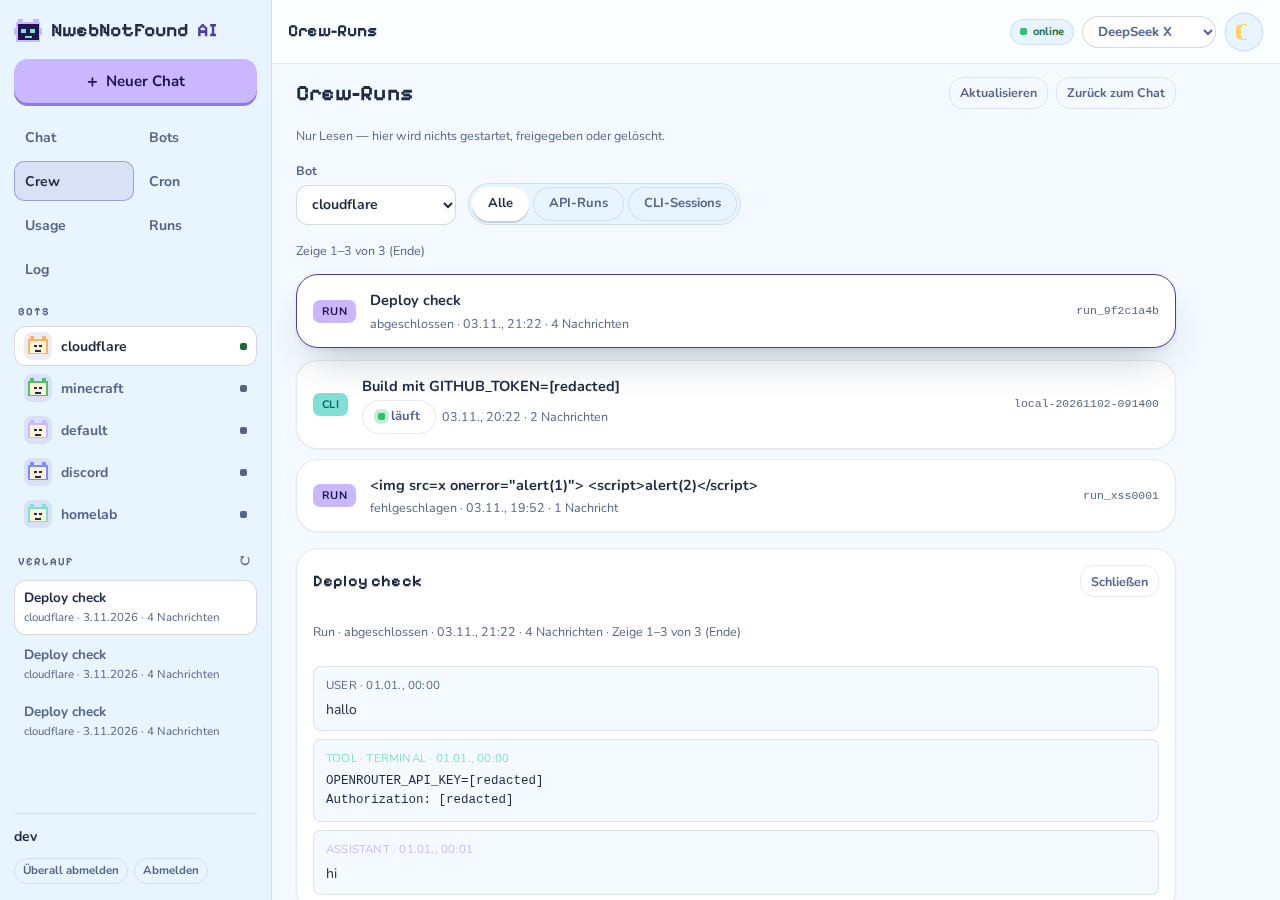
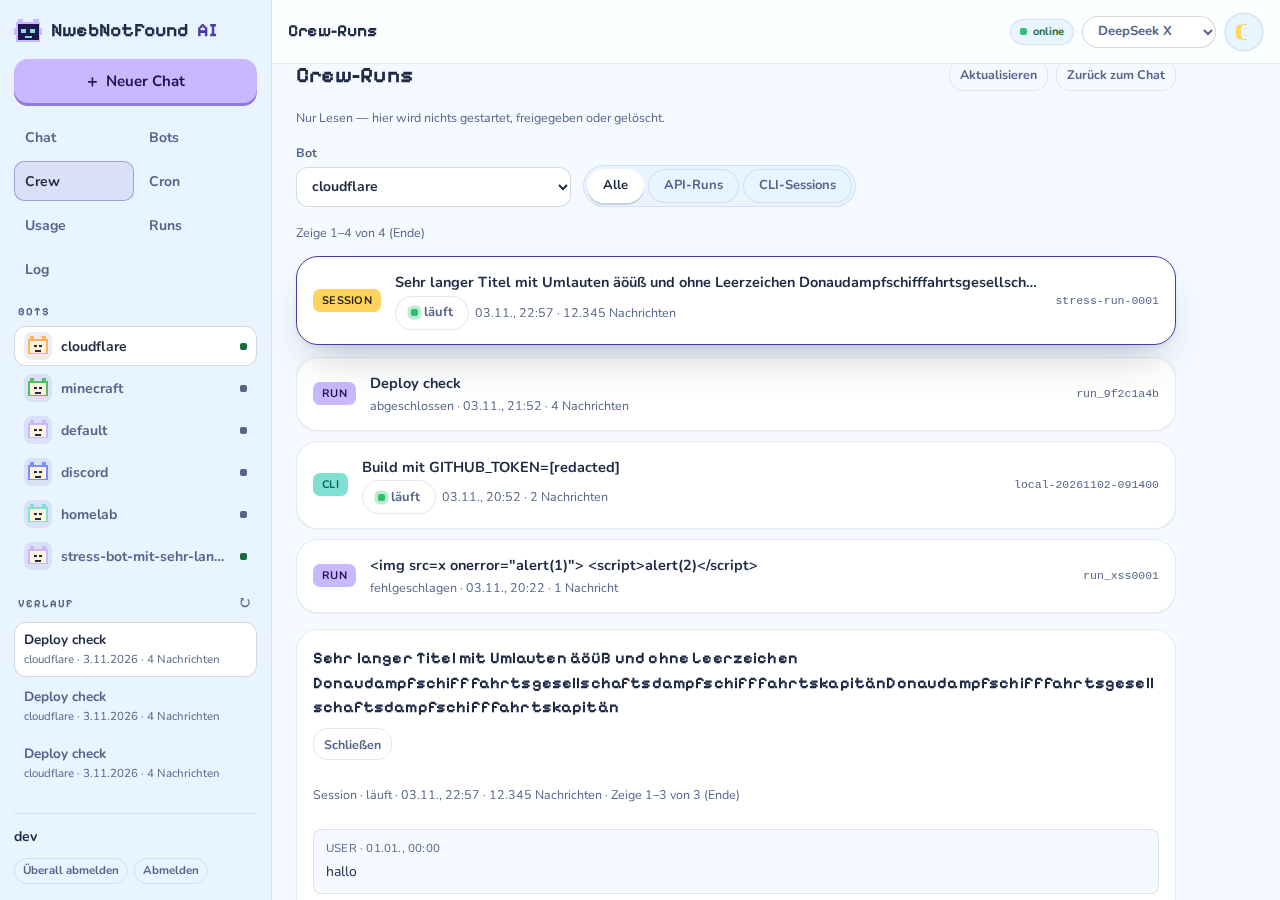
feat(ai-panel): de-DE figures, overflow-safe long content, SPA view transitions
Second round on the Summer Theme v2 draft (formatting, stress data, soft transitions).

- app.js / crew.js: every figure goes through Intl.NumberFormat("de-DE") (thousands separator,
  comma decimals, tabular-nums); costs render as $1.234.567,89, counts and ranges are grouped
- long content never overflows at 390px: the glass-header title, history titles and the log path
  are ellipsized, bot cards wrap name and description, and wide markdown tables scroll inside
  their own box
- switchView() wraps the DOM change in document.startViewTransition (feature-checked, desktop
  only, skipped under prefers-reduced-motion); topbar and rail keep their place via
  view-transition-name, duration exposed as --vt-dur-* tokens
- docs/screens/v2/ai: stress fixtures (long names, seven-figure numbers, a wide table, a long log
  path), refreshed mockup vs implementation shots and one frame captured mid-transition
- test/helpers.mjs: additive state.runOutput hook (default unchanged)

diff --git a/ai-panel/public/app.js b/ai-panel/public/app.js
@@ -40,6 +40,13 @@ const state = {
 
 const $ = (sel) => document.querySelector(sel);
 
+// Number formatting for every figure the UI prints: de-DE (thousands separator, comma decimals),
+// with tabular-nums in the stylesheet so columns line up. The panel has no language switch today,
+// so de-DE is the only locale — an en-GB table would go here once one exists.
+const fmtInt = new Intl.NumberFormat("de-DE");
+const fmtCost = new Intl.NumberFormat("de-DE", { minimumFractionDigits: 2, maximumFractionDigits: 4 });
+const fmtPrice = new Intl.NumberFormat("de-DE", { minimumFractionDigits: 2, maximumFractionDigits: 4 });
+
 // ---------------------------------------------------------------------------------------
 // DOM helpers
 // ---------------------------------------------------------------------------------------
@@ -383,7 +390,8 @@ function renderBlock(block) {
       return q;
     }
     case "table":
-      return tableNode(block);
+      // A wide table on a 390px screen scrolls inside its own box instead of the page.
+      return el("div", { class: "table-wrap" }, tableNode(block));
     case "hr":
       return el("hr");
     default:
@@ -907,7 +915,7 @@ async function loadConversations() {
       const item = el("button", { class: `session-item${conv.id === state.conversationId ? " active" : ""}` });
       item.append(el("span", { class: "t", text: conv.title || conv.id }));
       const when = conv.updated_at ? new Date(conv.updated_at).toLocaleDateString("de-DE") : "";
-      const parts = [conv.bot, when, conv.messages ? `${conv.messages} Nachrichten` : ""].filter(Boolean);
+      const parts = [conv.bot, when, conv.messages ? `${fmtInt.format(conv.messages)} Nachrichten` : ""].filter(Boolean);
       item.append(el("span", { class: "m", text: parts.join(" · ") }));
       item.onclick = () => openConversation(conv);
       list.append(item);
@@ -1321,7 +1329,7 @@ async function deleteJob(job) {
 // Usage + log
 // ---------------------------------------------------------------------------------------
 
-const money = (v) => (v === null || v === undefined ? "—" : `$${Number(v).toFixed(4)}`);
+const money = (v) => (v === null || v === undefined ? "—" : `$${fmtCost.format(Number(v) || 0)}`);
 const metric = (label, value) =>
   el("div", { class: "stat" }, el("div", { class: "k", text: label }), el("div", { class: "v", text: value }));
 
@@ -1358,7 +1366,7 @@ async function loadUsage() {
           el("b", { class: "grow", text: b.bot }),
           el("div", { class: "meter-wrap" }, meter),
           el("span", { class: "num", text: money(b.cost_usd) }),
-          el("span", { class: "k nowrap", text: `${b.sessions} Sessions · ${b.input_tokens + b.output_tokens} Tokens` }),
+          el("span", { class: "k nowrap", text: `${fmtInt.format(b.sessions)} Sessions · ${fmtInt.format(b.input_tokens + b.output_tokens)} Tokens` }),
         ),
       );
     }
@@ -1377,7 +1385,7 @@ async function loadUsage() {
         bar.style.animationDelay = `${(i * 0.03).toFixed(2)}s`;
         chart.append(bar);
       });
-      daily.append(chart, el("p", { class: "mut small bars-caption", text: `${days.length} Tage · Höchstwert ${money(max)}` }));
+      daily.append(chart, el("p", { class: "mut small bars-caption", text: `${fmtInt.format(days.length)} Tage · Höchstwert ${money(max)}` }));
     }
 
     const recent = clear($("#usage-recent"));
@@ -1389,7 +1397,7 @@ async function loadUsage() {
           { class: "card" },
           el("h3", { text: r.title || r.id }),
           el("div", { class: "k", text: `${r.bot} · ${r.model || "?"}` }),
-          el("div", { class: "k", text: `${money(r.cost_usd)} · ${r.input_tokens}+${r.output_tokens} Tokens` }),
+          el("div", { class: "k", text: `${money(r.cost_usd)} · ${fmtInt.format(r.input_tokens)}+${fmtInt.format(r.output_tokens)} Tokens` }),
         ),
       );
     }
@@ -1397,7 +1405,7 @@ async function loadUsage() {
     const prices = clear($("#usage-prices"));
     if (!u.prices.length) prices.append(el("div", { class: "card mut", text: u.prices_error || "keine Preise" }));
     for (const p of u.prices) {
-      prices.append(el("div", { class: "card" }, el("h3", { text: p.name }), el("div", { class: "k", text: `in ${p.prompt ?? "?"} · out ${p.completion ?? "?"}` })));
+      prices.append(el("div", { class: "card" }, el("h3", { text: p.name }), el("div", { class: "k", text: `in ${p.prompt === null || p.prompt === undefined ? "?" : fmtPrice.format(p.prompt)} · out ${p.completion === null || p.completion === undefined ? "?" : fmtPrice.format(p.completion)}` })));
     }
   } catch (err) {
     clear(cards).append(el("div", { class: "card mut", text: `Usage: ${err.message}` }));
@@ -1427,7 +1435,7 @@ async function loadLog() {
           el("span", { text: (e.ts || "").slice(11, 19) }),
           el("span", { class: `lv s${String(e.status)[0]}`, text: String(e.status) }),
           el("span", { text: `${e.path}${e.bot ? ` · ${e.bot}` : ""}` }),
-          el("span", { class: "c-ms", text: `${e.ms}ms` }),
+          el("span", { class: "c-ms", text: `${fmtInt.format(e.ms)} ms` }),
           el("span", { class: "c-method", text: e.method }),
         ),
       );
@@ -1512,25 +1520,41 @@ const VIEW_TITLES = {
 };
 
 function switchView(view) {
-  state.view = view;
-  for (const node of document.querySelectorAll(".view")) node.classList.toggle("active", node.id === `view-${view}`);
-  for (const btn of document.querySelectorAll(".nav-item")) btn.classList.toggle("active", btn.dataset.view === view);
-  // The glass header shows the current view's name (mockup), and remembers the chat title while
-  // another view is open so it can be restored on the way back.
-  const title = $("#chat-title");
-  if (view === "chat") {
-    title.textContent = state.chatTitle || "Neuer Chat";
-  } else {
-    state.chatTitle = title.textContent;
-    title.textContent = VIEW_TITLES[view] || "AI Panel";
+  const apply = () => {
+    state.view = view;
+    for (const node of document.querySelectorAll(".view")) node.classList.toggle("active", node.id === `view-${view}`);
+    for (const btn of document.querySelectorAll(".nav-item")) btn.classList.toggle("active", btn.dataset.view === view);
+    // The glass header shows the current view's name (mockup), and remembers the chat title while
+    // another view is open so it can be restored on the way back.
+    const title = $("#chat-title");
+    if (view === "chat") {
+      title.textContent = state.chatTitle || "Neuer Chat";
+    } else {
+      state.chatTitle = title.textContent;
+      title.textContent = VIEW_TITLES[view] || "AI Panel";
+    }
+    if (view === "bots") loadBots().catch(() => {});
+    if (view === "cron") loadJobs();
+    if (view === "usage") loadUsage();
+    if (view === "log") loadLog();
+    if (view === "runs") loadRuns();
+    if (view === "crew") crewView.open();
+    if (window.innerWidth <= 860) closeDrawer();
+  };
+
+  // Soft SPA view transition (CSS View Transitions API): content cross-fades while the topbar and
+  // the sidebar keep their place (view-transition-name in app.css). Feature-checked, skipped when
+  // reduced motion is on, and skipped on phones where the drawer animation is the transition.
+  const reduced = window.matchMedia?.("(prefers-reduced-motion: reduce)")?.matches;
+  if (typeof document.startViewTransition === "function" && !reduced && window.innerWidth > 860) {
+    try {
+      document.startViewTransition(apply);
+      return;
+    } catch {
+      /* fall through to a plain switch */
+    }
   }
-  if (view === "bots") loadBots().catch(() => {});
-  if (view === "cron") loadJobs();
-  if (view === "usage") loadUsage();
-  if (view === "log") loadLog();
-  if (view === "runs") loadRuns();
-  if (view === "crew") crewView.open();
-  if (window.innerWidth <= 860) closeDrawer();
+  apply();
 }
 
 function openDrawer() {

diff --git a/ai-panel/public/app.css b/ai-panel/public/app.css
@@ -95,6 +95,9 @@
   --ds-line: rgba(255, 255, 255, 0.08);
   --ds-line-strong: rgba(255, 255, 255, 0.16);
   --ds-face-ink: #1f2a44;
+  /* View-transition timing (see the block near the end of this file). */
+  --vt-dur-out: 180ms;
+  --vt-dur-in: 240ms;
   color-scheme: dark;
 
   /* ---- spacing: 4/8 grid ---- */
@@ -1278,6 +1281,29 @@ label { display: grid; gap: 6px; font-size: 13px; font-weight: 700; color: var(-
 #btn-theme:hover { transform: rotate(-12deg) scale(1.06); background: var(--bg-side); }
 #btn-theme svg { animation: pop-spin 0.5s cubic-bezier(0.34, 1.56, 0.64, 1); }
 
+/* ---------- SPA view transitions ----------
+   switchView() wraps the DOM change in document.startViewTransition when the browser has it. The
+   topbar and the rail carry their own view-transition-name, so they keep their place while only
+   the content cross-fades. Feature-checked in JS; reduced motion turns the animation off. */
+.topbar { view-transition-name: app-topbar; }
+.sidebar { view-transition-name: app-rail; }
+
+@media (prefers-reduced-motion: no-preference) {
+  ::view-transition-old(root) { animation: vt-leave var(--vt-dur-out) ease both; }
+  ::view-transition-new(root) { animation: vt-enter var(--vt-dur-in) cubic-bezier(0.2, 0.8, 0.2, 1) both; }
+}
+@keyframes vt-leave { to { opacity: 0; transform: translateY(6px); } }
+@keyframes vt-enter { from { opacity: 0; transform: translateY(10px); } }
+
+/* ---------- long content: wrap or clip, never overflow ---------- */
+.md .table-wrap { margin: 0 0 12px; overflow-x: auto; -webkit-overflow-scrolling: touch; }
+.md .table-wrap table { margin: 0; }
+.md code.inline { overflow-wrap: anywhere; }
+.bot-card h3 { overflow-wrap: anywhere; }
+.card .v, .stat .v { font-variant-numeric: tabular-nums; }
+/* One cell of the log row may be a very long path: clip it with an ellipsis, never overflow. */
+.log .line > span { min-width: 0; overflow: hidden; text-overflow: ellipsis; white-space: nowrap; }
+
 /* Cron: one row per job — clock, name/schedule, state chip, toggle; actions underneath. */
 .panel.job {
   display: grid;
@@ -1327,6 +1353,9 @@ label { display: grid; gap: 6px; font-size: 13px; font-weight: 700; color: var(-
   .panel.job > .chip { grid-column: 1 / 2; }
   .panel.job > .toggle { grid-column: 2 / 3; justify-self: end; }
   .meter-wrap { flex: 1 1 100%; }
+  /* Long bot names / token counts wrap under the meter instead of squeezing the row. */
+  .li { flex-wrap: wrap; row-gap: 4px; }
+  .li .nowrap { white-space: normal; }
 }
 
 /* Request log: monospace table, alternating rows on the elevated surface. */

diff --git a/ai-panel/public/crew.js b/ai-panel/public/crew.js
@@ -14,6 +14,9 @@ export const FILTERS = [
   { id: "cli", label: "CLI-Sessions" },
 ];
 
+// de-DE grouping for the count/range labels (the panel has no language switch yet).
+const NUM_DE = new Intl.NumberFormat("de-DE");
+
 const KIND_LABEL = { run: "Run", cli: "CLI", other: "Session" };
 
 export function kindLabel(kind) {
@@ -43,7 +46,7 @@ export function formatTime(epoch) {
 
 export function messageCountLabel(count) {
   const n = Number(count) || 0;
-  return n === 1 ? "1 Nachricht" : `${n} Nachrichten`;
+  return n === 1 ? "1 Nachricht" : `${NUM_DE.format(n)} Nachrichten`;
 }
 
 /** One row of the list, as a button so it is keyboard- and touch-reachable. */
@@ -100,7 +103,7 @@ export function rangeLabel({ shown, total, offset }) {
   const start = total ? offset + 1 : 0;
   const end = offset + shown;
   if (!shown) return "keine Einträge";
-  return `Zeige ${start}–${end} von ${total || end}${total > end ? "" : " (Ende)"}`;
+  return `Zeige ${NUM_DE.format(start)}–${NUM_DE.format(end)} von ${NUM_DE.format(total || end)}${total > end ? "" : " (Ende)"}`;
 }
 
 /**

diff --git a/ai-panel/docs/screens/v2/ai/README.md b/ai-panel/docs/screens/v2/ai/README.md
@@ -10,6 +10,11 @@ loopback dev server.
 | `neu-<page>-1280.png` | the real panel at 1280×900, dark theme (the mockups are the night variant) |
 | `neu-<page>-390.png` | the real panel at 390×844, dark theme |
 | `day-<page>-1280.png` | the real panel at 1280×900, light theme (proves the day tokens) |
+| `stress-chat-1280.png`, `stress-chat-390.png` | long unbreakable words, a wide markdown table, big figures |
+| `stress-bots-1280.png` | a very long bot name and description |
+| `stress-usage-1280.png` | millions of tokens and a seven-figure cost, grouped de-DE |
+| `stress-log-1280.png` | a very long request path, clipped instead of overflowing |
+| `transition-cron-1280.png` | one frame grabbed in the middle of the SPA view transition |
 
 Pages: `chat`, `bots`, `crew`, `cron`, `usage`, `log`.
 
@@ -33,3 +38,11 @@ docker run --rm -v hermes-scratch-ai-out:/out alpine tar -cf - -C /out . | tar -
 The shots use `colorScheme: dark` for the primary pass because the mockups are the night variant;
 the panel's own toggle reads `prefers-color-scheme` on first load, so the day pass is the same page
 with `colorScheme: light`.
+
+The stress fixtures (a 32-char bot name with a long description, a session with seven-figure tokens
+and cost, and one markdown answer with a wide table) are injected into the in-process mock by the
+harness — `test/helpers.mjs` stays untouched apart from one additive `state.runOutput` hook.
+`transition-cron-1280.png` shows the SPA view transition mid-flight; the harness slows the two
+`::view-transition` animations to 3s for that single frame (override the `--vt-dur-*` tokens via
+CSSOM — an injected `<style>` would be blocked by the page's own `style-src 'self'` CSP), because
+the real fade is 240ms and is over before the screenshot round-trip.
